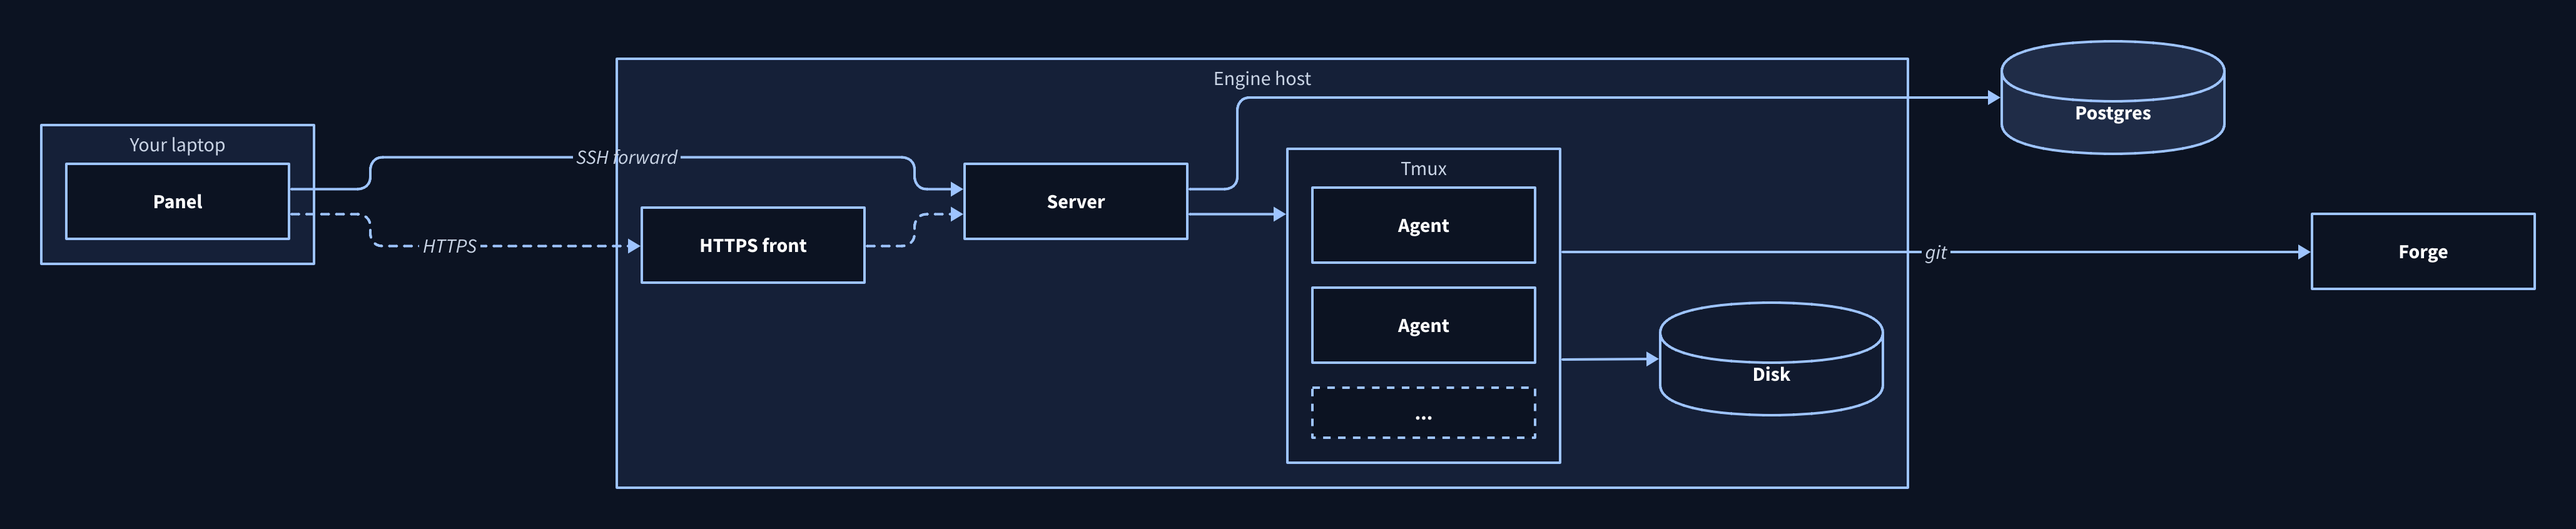
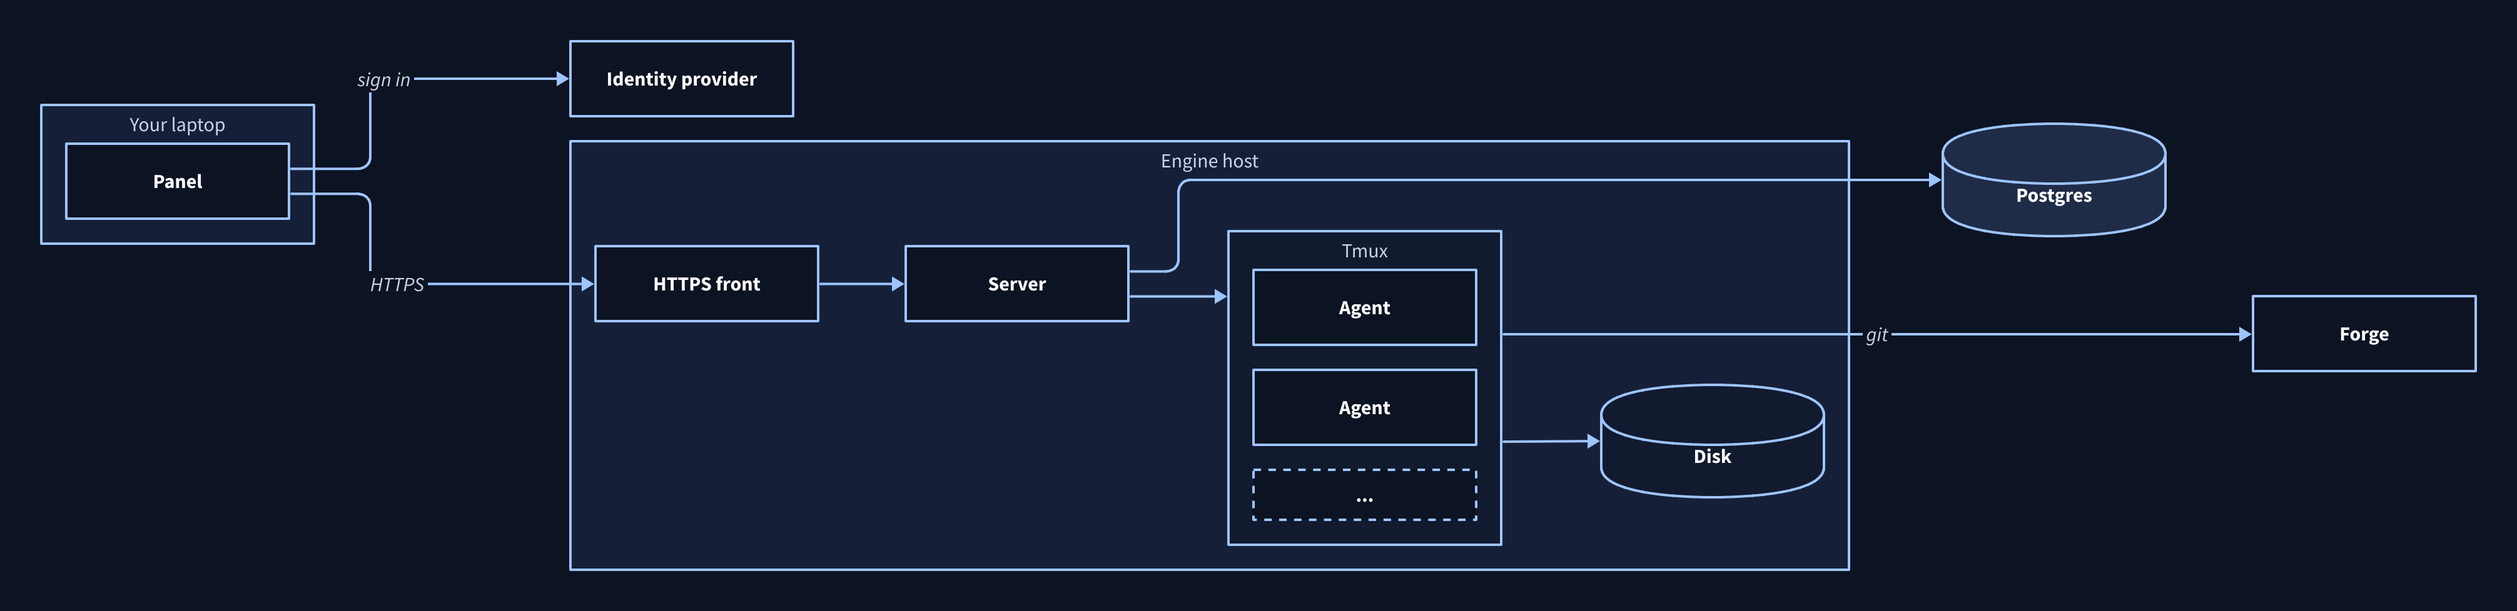
docs: describe engine access as HTTPS sign-in with no SSH

diff --git a/infra/engine/README.md b/infra/engine/README.md
@@ -4,7 +4,7 @@ This stack is the remote engine komrad's own development runs on: one EC2 instan
 
 Copy `terraform.tfvars.example` and `backend.hcl.example`, drop the `.example`, and fill them in. Then run `mise run infra:engine:init` and `mise run infra:engine:apply`.
 
-To serve the engine on a domain, set `domain_name` and add an A record for it at your DNS host, pointing at the `instance_public_ip` output. Terraform leaves the record to you, so the engine doesn't depend on any one DNS provider.
+Set `domain_name` to the engine's domain, and add an A record for it at your DNS host, pointing at the `instance_public_ip` output. Terraform leaves the record to you, so the engine doesn't depend on any one DNS provider.
 
 GitHub Actions assumes the `<name>-ci` role with a token GitHub signs for each run. The role trusts only this repository's branches and its `v` tags. It can read the state, send the instance a command through Systems Manager, start and stop it, and build an image. It can't log in.
 
